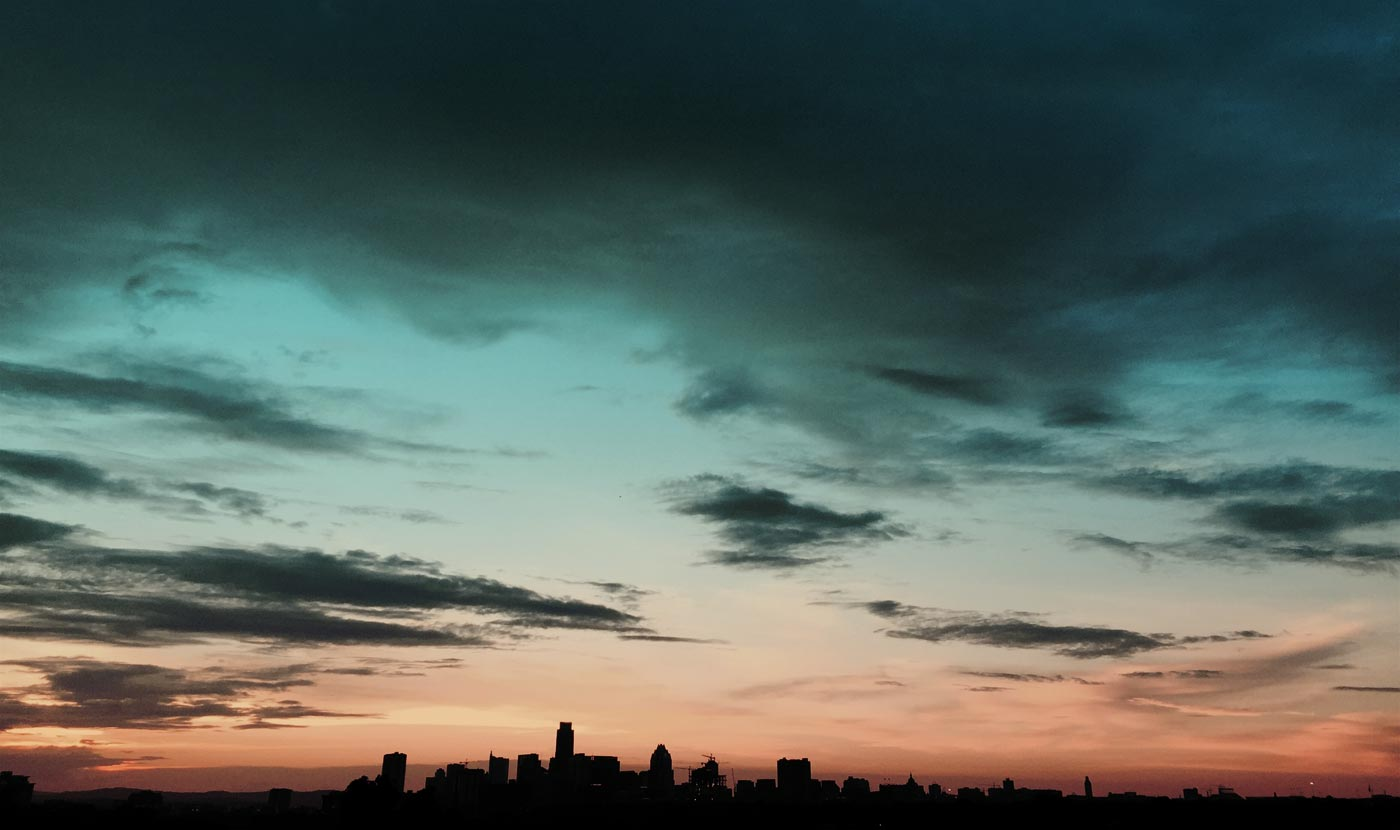
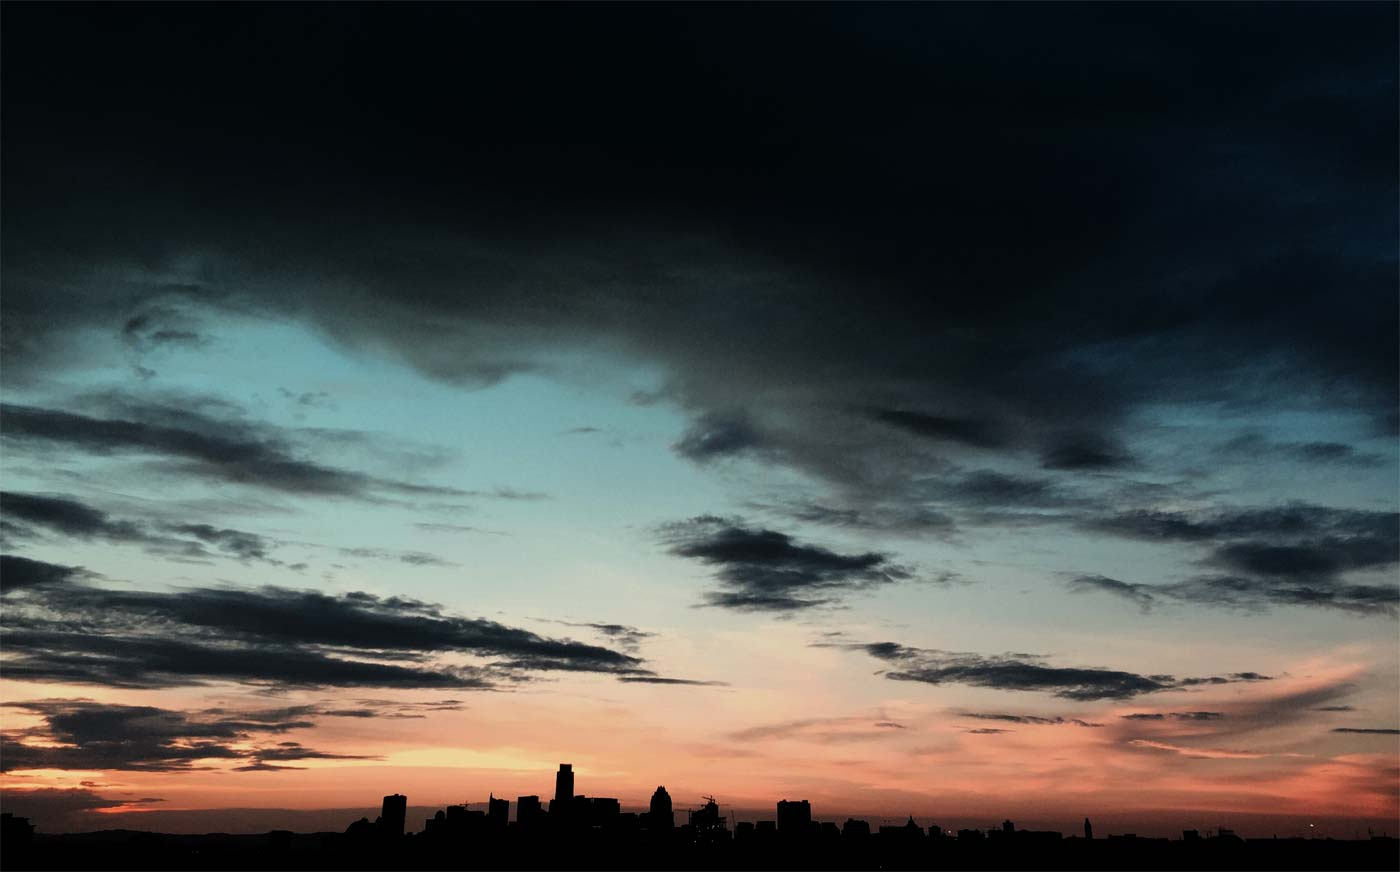
Using the cloud gate as a hero unit

diff --git a/scss/core/_colors.scss b/scss/core/_colors.scss
@@ -1,57 +1,43 @@
 $white:                 #FFF;
 $black:                 #000;
+$gray:                  #000;
 
 $apricot:               #EFA17B;
 
 $teal:                  #3DCC94;
 $shamrock:              #3DCC94;
 $shakespeare:           #47BECF;
+$eucalyptus:            #26805D;
 
 $orange:                #ED5C18;
 $flamingo:              #ED5C18;
 $dixie:                 #E89B18;
+$copper-canyon:         #843713;
 
 $purple:                #9932F3;
 $electric-violet:       #9932F3;
 $purple-heart:          #BD1FCB;
-
-$darkTeal:              #26805D;
-$darkOrange:            #843713;
-$darkPurple:            #561192;
+$blue-gem:              #561192;
 
 // -----------------------------------------------------------------------------
 
 @mixin tealGradient() {
-  background: linear-gradient($shakespeare, $shamrock);
-  background: -webkit-linear-gradient($shakespeare, $shamrock);
-  background: -o-linear-gradient($shakespeare, $shamrock);
-  background: -moz-linear-gradient($shakespeare, $shamrock);
+  background: linear-gradient($shamrock, $shakespeare);
+  background: -webkit-linear-gradient($shamrock, $shakespeare);
+  background: -o-linear-gradient($shamrock, $shakespeare);
+  background: -moz-linear-gradient($shamrock, $shakespeare);
 }
 
 @mixin orangeGradient() {
-  background: linear-gradient($flamingo, $dixie);
-  background: -webkit-linear-gradient($flamingo, $dixie);
-  background: -o-linear-gradient($flamingo, $dixie);
-  background: -moz-linear-gradient($flamingo, $dixie);
+  background: linear-gradient($dixie, $flamingo);
+  background: -webkit-linear-gradient($dixie, $flamingo);
+  background: -o-linear-gradient($dixie, $flamingo);
+  background: -moz-linear-gradient($dixie, $flamingo);
 }
 
 @mixin purpleGradient() {
-  background: linear-gradient($electric-violet, $purple-heart);
-  background: -webkit-linear-gradient($electric-violet, $purple-heart);
-  background: -o-linear-gradient($electric-violet, $purple-heart);
-  background: -moz-linear-gradient($electric-violet, $purple-heart);
-}
-
-// -----------------------------------------------------------------------------
-
-.dark-teal {
-  color: $darkTeal;
-}
-
-.dark-orange {
-  color: $darkOrange;
-}
-
-.dark-purple {
-  color: $darkPurple;
+  background: linear-gradient($purple-heart, $electric-violet);
+  background: -webkit-linear-gradient($purple-heart, $electric-violet);
+  background: -o-linear-gradient($purple-heart, $electric-violet);
+  background: -moz-linear-gradient($purple-heart, $electric-violet);
 }

diff --git a/scss/desktop/views/_home.scss b/scss/desktop/views/_home.scss
@@ -1,14 +1,18 @@
 .homepage-hero-unit {
   background-size: cover;
-  background-position: center bottom;
+  background-position: center top;
 
   z-index: 100;
 
+  * {
+    color: #4e4e4e;
+  }
+
   @media (min-width: $desktopMin) {
-    background-image: url('austin_skyline_high.jpg');
+    background-image: url('cloud_gate_high.jpg');
   }
   @media (max-width: $laptopMax) and (min-width: $laptopMin) {
-    background-image: url('austin_skyline_medium.jpg');
+    background-image: url('cloud_gate_medium.jpg');
   }
 }
 
@@ -50,6 +54,10 @@
     top: 50px;
     z-index: 9;
   }
+
+  .learn-more {
+    color: $eucalyptus;
+  }
 }
 
 // -----------------------------------------------------------------------------
@@ -75,10 +83,18 @@
     right: 100px;
     z-index: 10;
   }
+
+  .learn-more {
+    color: $copper-canyon;
+  }
 }
 
 // -----------------------------------------------------------------------------
 
 .self-promotion-hero-unit {
   @include purpleGradient();
+
+  .learn-more {
+    color: $blue-gem;
+  }
 }

diff --git a/scss/desktop/modules/_helloMyNameIs.scss b/scss/desktop/modules/_helloMyNameIs.scss
@@ -32,7 +32,7 @@
   display: inline-block;
   height: 1em;
   width: 2px;
-  background: $darkPurple;
+  background: $blue-gem;
   margin-left: 3px;
 
   @include animation('blink 0.75s infinite');
@@ -43,7 +43,7 @@
     background: transparent;
   }
   50% {
-    background: $darkPurple;
+    background: $blue-gem;
   }
   100% {
     background: transparent;

diff --git a/scss/mobile/modules/_helloMyNameIs.scss b/scss/mobile/modules/_helloMyNameIs.scss
@@ -33,7 +33,7 @@
   display: inline-block;
   height: 1em;
   width: 2px;
-  background: $darkPurple;
+  background: $blue-gem;
   margin-left: 3px;
 
   @include animation('blink 0.75s infinite');
@@ -44,7 +44,7 @@
     background: transparent;
   }
   50% {
-    background: $darkPurple;
+    background: $blue-gem;
   }
   100% {
     background: transparent;

diff --git a/scss/mobile/views/_home.scss b/scss/mobile/views/_home.scss
@@ -1,11 +1,11 @@
 .homepage-hero-unit {
   background-size: cover;
-  background-position: center center;
+  background-position: center top;
 
   z-index: 100;
 
   @media (max-width: $mobileMax) {
-    background-image: url('/austin_skyline_small.jpg');
+    background-image: url('/cloud_gate_small.jpg');
   }
 
   .hero-unit-bit:first-child {

diff --git a/scss/desktop/views/_resume.scss b/scss/desktop/views/_resume.scss
@@ -1,5 +1,17 @@
-.resume {
+.resume-top {
   background: $purple-heart;
+
+  .learn-more {
+    color: $blue-gem;
+  }
+}
+
+.resume {
+  background: $electric-violet;
+}
+
+.resume-gradient {
+  @include purpleGradient();
 }
 
 .resume-liquid-bit-small {

diff --git a/scss/desktop/views/_somersault.scss b/scss/desktop/views/_somersault.scss
@@ -3,7 +3,7 @@
 }
 
 .somersault {
-  background: $dixie;
+  background: $flamingo;
 }
 
 // -----------------------------------------------------------------------------

diff --git a/scss/mobile/views/_resume.scss b/scss/mobile/views/_resume.scss
@@ -1,3 +1,8 @@
+.resume-top {
+  @include purpleGradient();
+  border-bottom: 1px solid $blue-gem;
+}
+
 .resume {
   background: $purple-heart;
 }

diff --git a/scss/mobile/views/_ibmSwift.scss b/scss/mobile/views/_ibmSwift.scss
@@ -3,7 +3,7 @@
 }
 
 .ibm-swift {
-  background: $shakespeare;
+  background: $shamrock;
 }
 
 .ibm-swift-liquid-bit-small {
